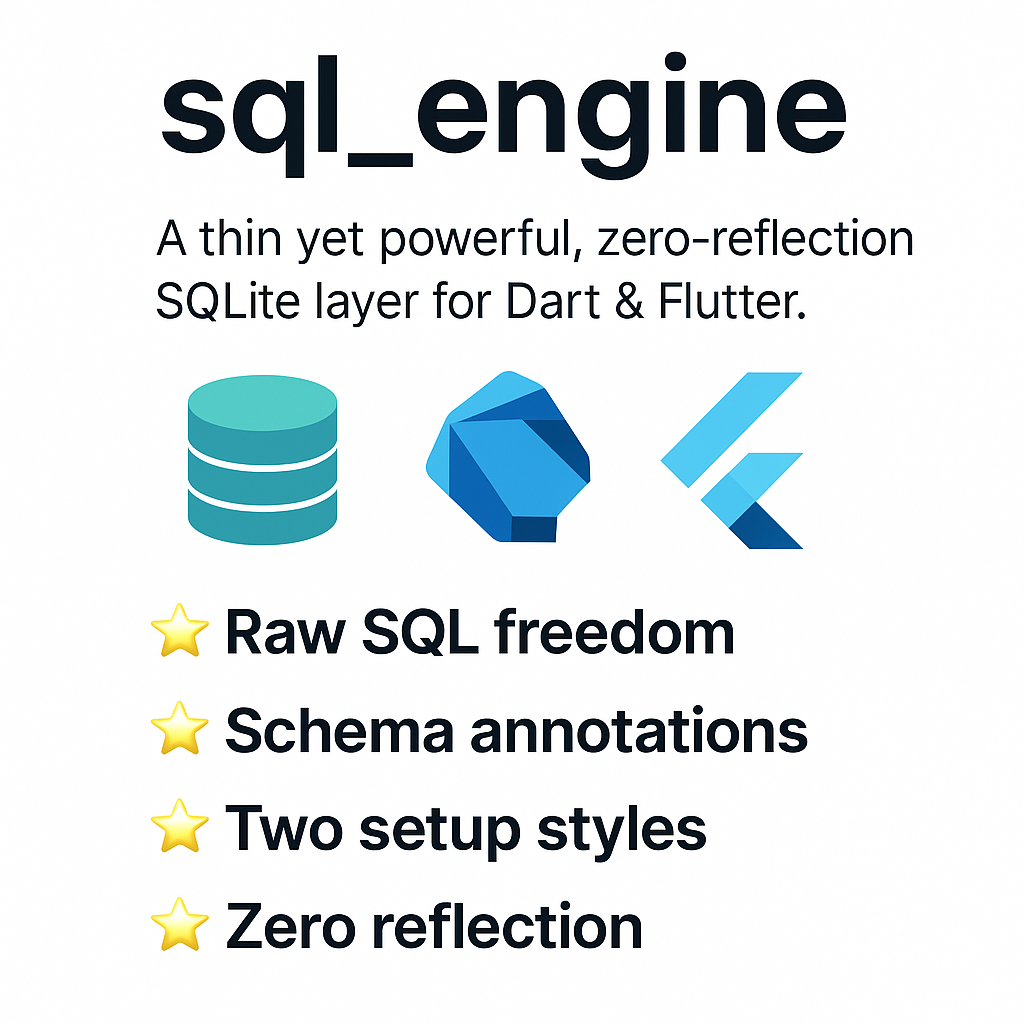
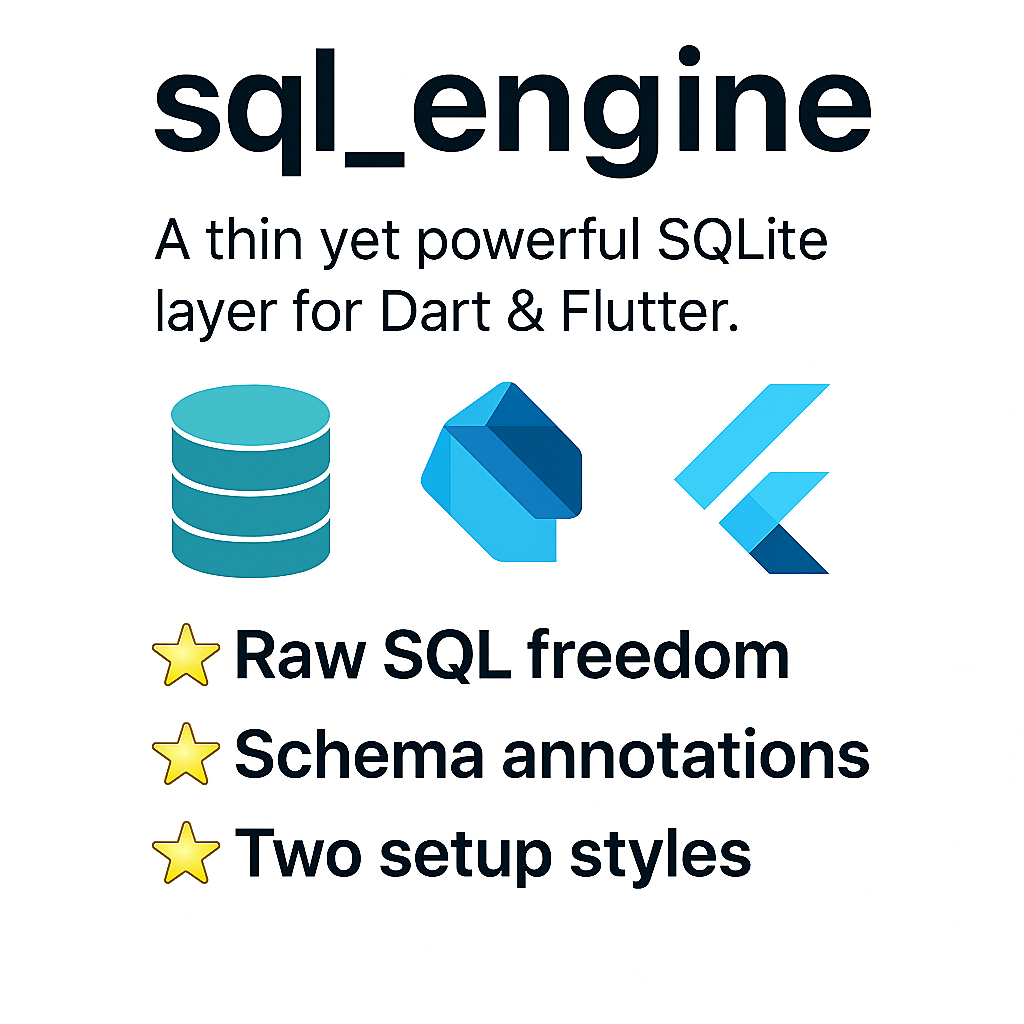
fixed typo and image

diff --git a/README.md b/README.md
@@ -1,6 +1,6 @@
 # 🧠 sql_engine
 
-*A thin yet powerful, **zero‑reflection** SQLite layer for Dart & Flutter.*
+*A thin yet powerful SQLite layer for Dart & Flutter.*
 
 ![sql_engine banner](assets/banner.png)
 
@@ -9,7 +9,7 @@
 
 ## ✨ Key features
 
-- **Raw SQL freedom** – run any statement you like (`JOIN`, `UPSERT`, CTEs, FTS5…).
+- **Raw SQL freedom** – run any statement you like (`JOIN`, `UPSERT`, FTS5…).
 - **Schema annotations** – use `@SqlTable` + `@SqlSchema` to generate  
   `CREATE TABLE` scripts *and* versioned migrations automatically.
 - **Two setup styles**
@@ -190,7 +190,7 @@ await db.transaction(() async {
 
 ## 🔍 Related terms
 
-SQL, SQLite, FTS5, UPSERT, JOIN, CTE, WAL, migration, schema, Dart ORM.
+SQL, SQLite, FTS5, UPSERT, JOIN, WAL, migration, schema, Dart ORM.
 
 ## 🤝 Contributing & roadmap
 

diff --git a/CHANGELOG.md b/CHANGELOG.md
@@ -1,3 +1,3 @@
-## 1.0.0
-- Initial release.
+## 1.0.1
+- Updated typo.
 - Raw SQL support, schema annotations, migrations, model mapping.
